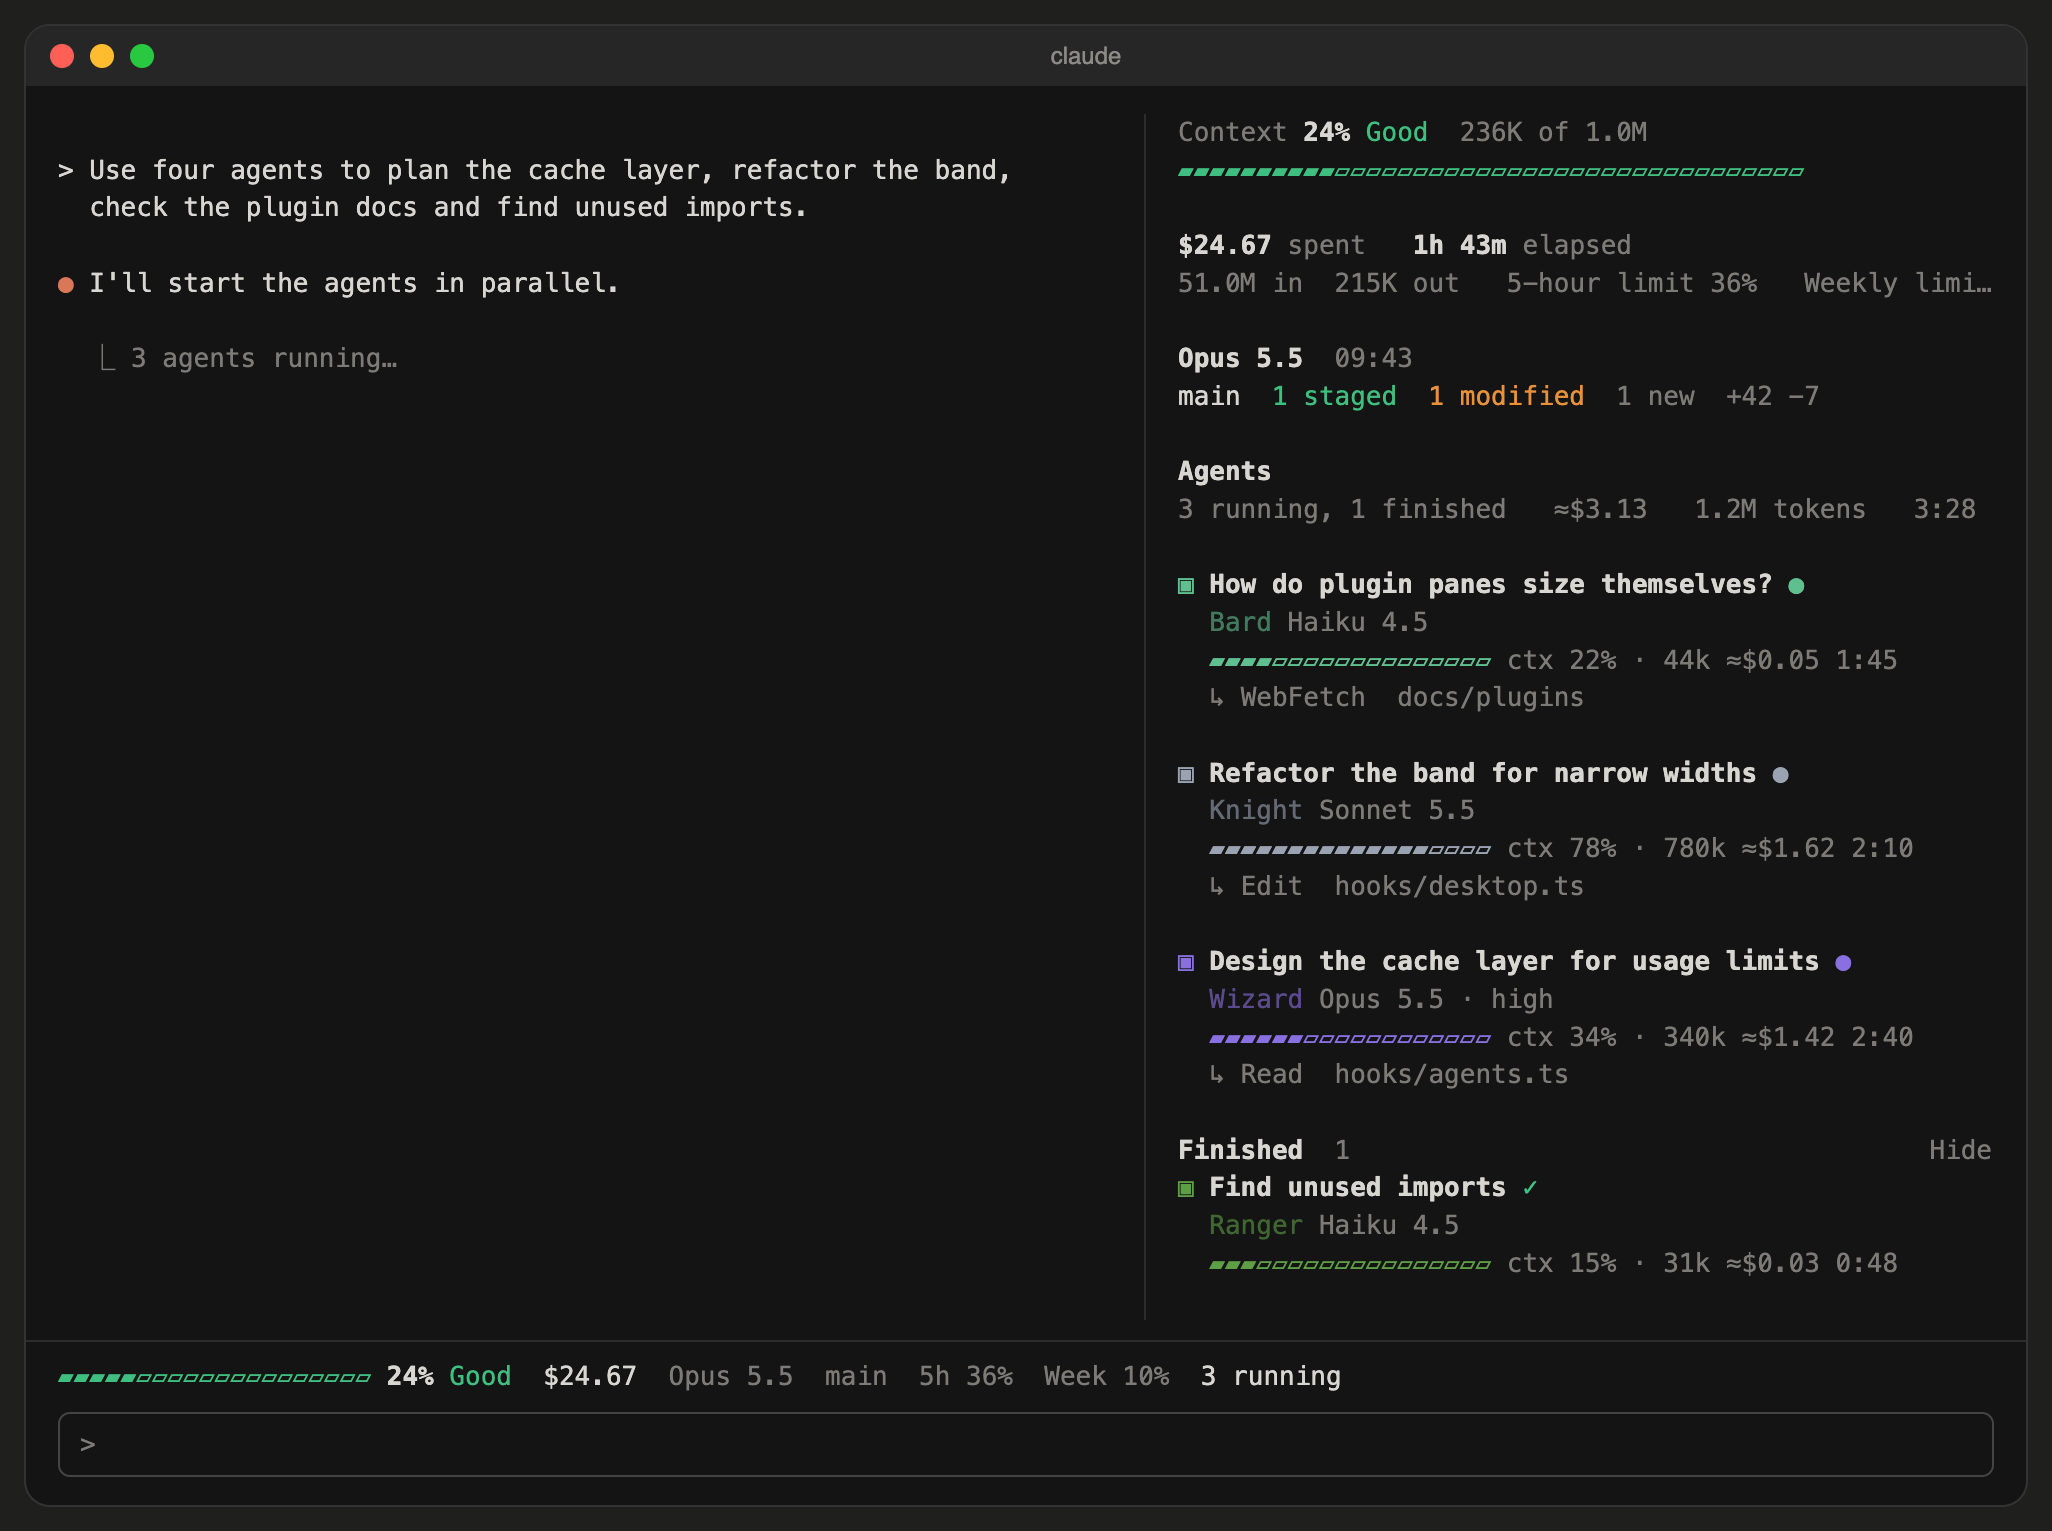
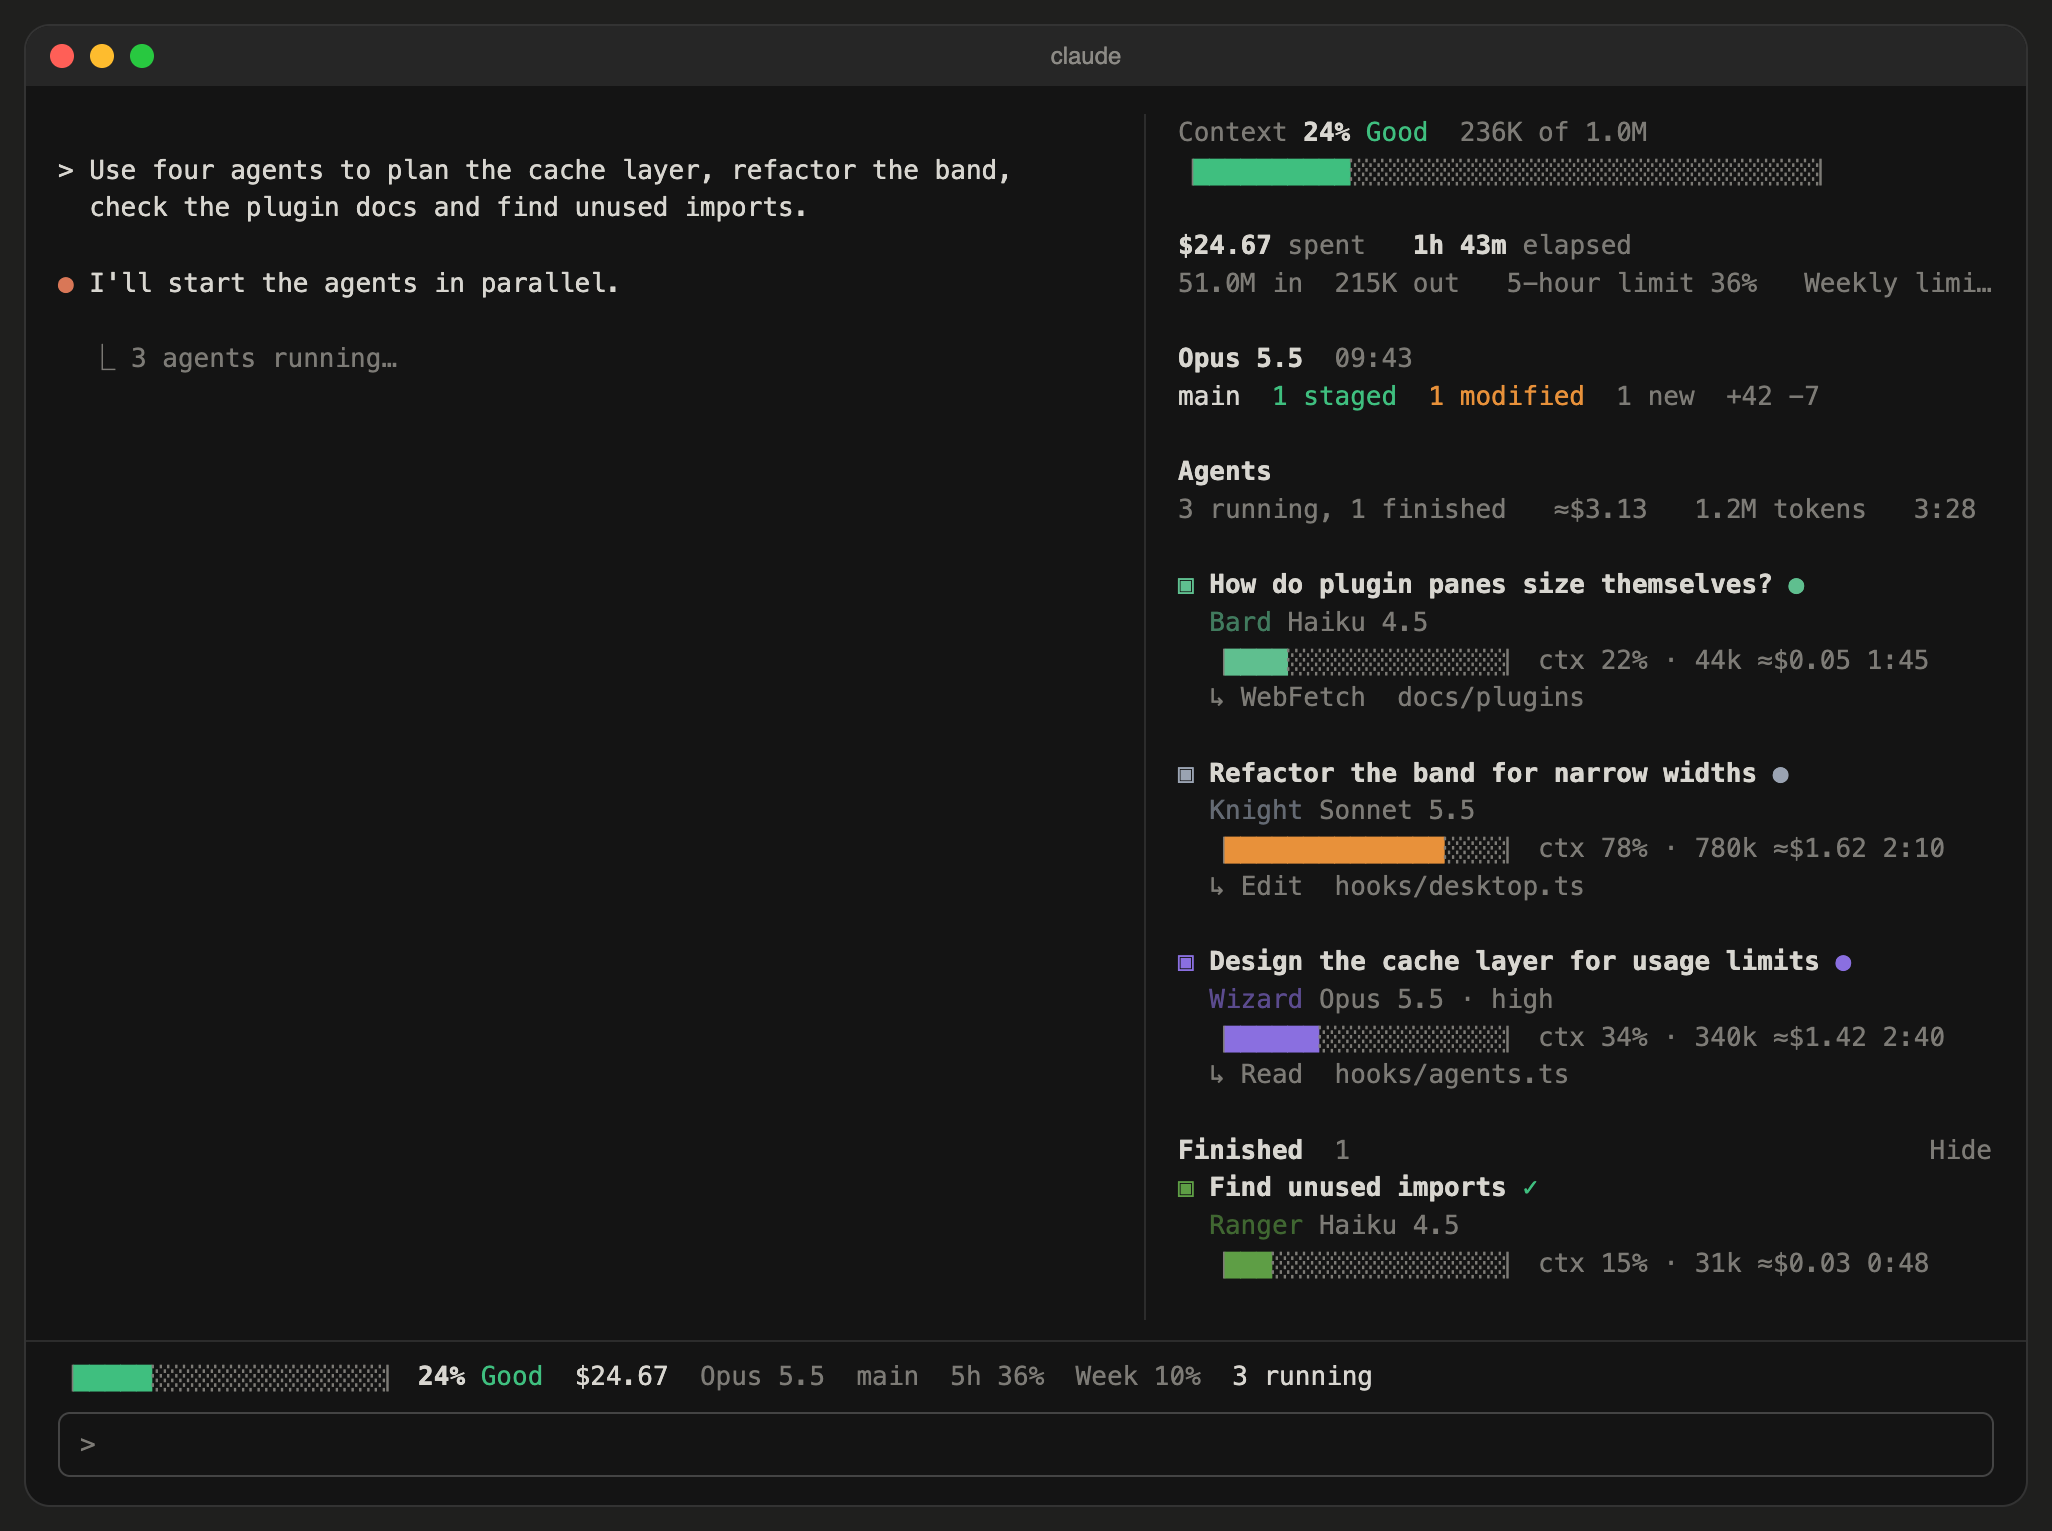
Terminal bars as framed RPG gauges

diff --git a/hooks/register.tsx b/hooks/register.tsx
@@ -1,5 +1,5 @@
 import { atom, read, update } from 'claude-code'
-import type { EngineInterface, Register } from 'claude-code'
+import type { ElementConstructor, EngineInterface, Register, TextProps } from 'claude-code'
 
 import type { AgentRun, AgentStatus, Panel, Repo, Tokens } from '../types'
 import { costumeOf, roleName } from './sprites'
@@ -54,9 +54,17 @@ const TITLE = 'Session'
 const inputOf = (u: StepUsage): number =>
   (u.input_tokens || 0) + (u.cache_read_input_tokens || 0) + (u.cache_creation_input_tokens || 0)
 
-const cellBar = (pct: number, width: number): string => {
+// The terminal's framed RPG gauge: solid blocks in the gem colour on a dim track, between frame edges.
+const termGauge = (Text: ElementConstructor<TextProps>, pct: number, width: number, color: string) => {
   const lit = Math.round((Math.max(0, Math.min(100, pct)) / 100) * width)
-  return '▰'.repeat(lit) + '▱'.repeat(Math.max(0, width - lit))
+  return (
+    <Text>
+      <Text dimColor>▕</Text>
+      <Text color={color}>{'█'.repeat(lit)}</Text>
+      <Text dimColor>{'░'.repeat(Math.max(0, width - lit))}</Text>
+      <Text dimColor>▏</Text>
+    </Text>
+  )
 }
 
 // What a subagent's tool call is aimed at, for its "now doing" line.
@@ -251,7 +259,7 @@ export const register: Register = on => {
     return (
       <Box flexDirection="row" gap={2}>
         <Text>
-          <Text color={lv.color}>{cellBar(pct, width)}</Text> <Text bold>{Math.round(pct)}%</Text> <Text color={lv.color}>{lv.word}</Text>
+          {termGauge(Text, pct, width, lv.color)} <Text bold>{Math.round(pct)}%</Text> <Text color={lv.color}>{lv.word}</Text>
         </Text>
         <Text>${cost.toFixed(2)}</Text>
         <Text dimColor>{modelName(model)}</Text>
@@ -374,7 +382,7 @@ export const register: Register = on => {
           </Text>
           <Text wrap="truncate-end">
             {'  '}
-            <Text color={color}>{cellBar(c, barW)}</Text>
+            {termGauge(Text, c, barW, a.status === 'running' && c >= 70 ? STATUS.moderate : color)}
             <Text dimColor>
               {' '}
               ctx {c}% · {fmtK(a.contextTokens)} ≈{fmtCost(a.costUsd ?? 0)} {fmtTime((a.endedAt ?? at) - a.startedAt)}
@@ -398,7 +406,7 @@ export const register: Register = on => {
             <Text bold>{Math.round(ctx.percent)}%</Text> <Text color={lv.color}>{lv.word}</Text>
             <Text dimColor>  {fmtTokens(ctx.tokens)} of {fmtTokens(ctx.window)}</Text>
           </Text>
-          <Text color={lv.color}>{cellBar(ctx.percent, width)}</Text>
+          {termGauge(Text, ctx.percent, width, lv.color)}
         </Box>
         <Box flexDirection="column">
           <Text>
